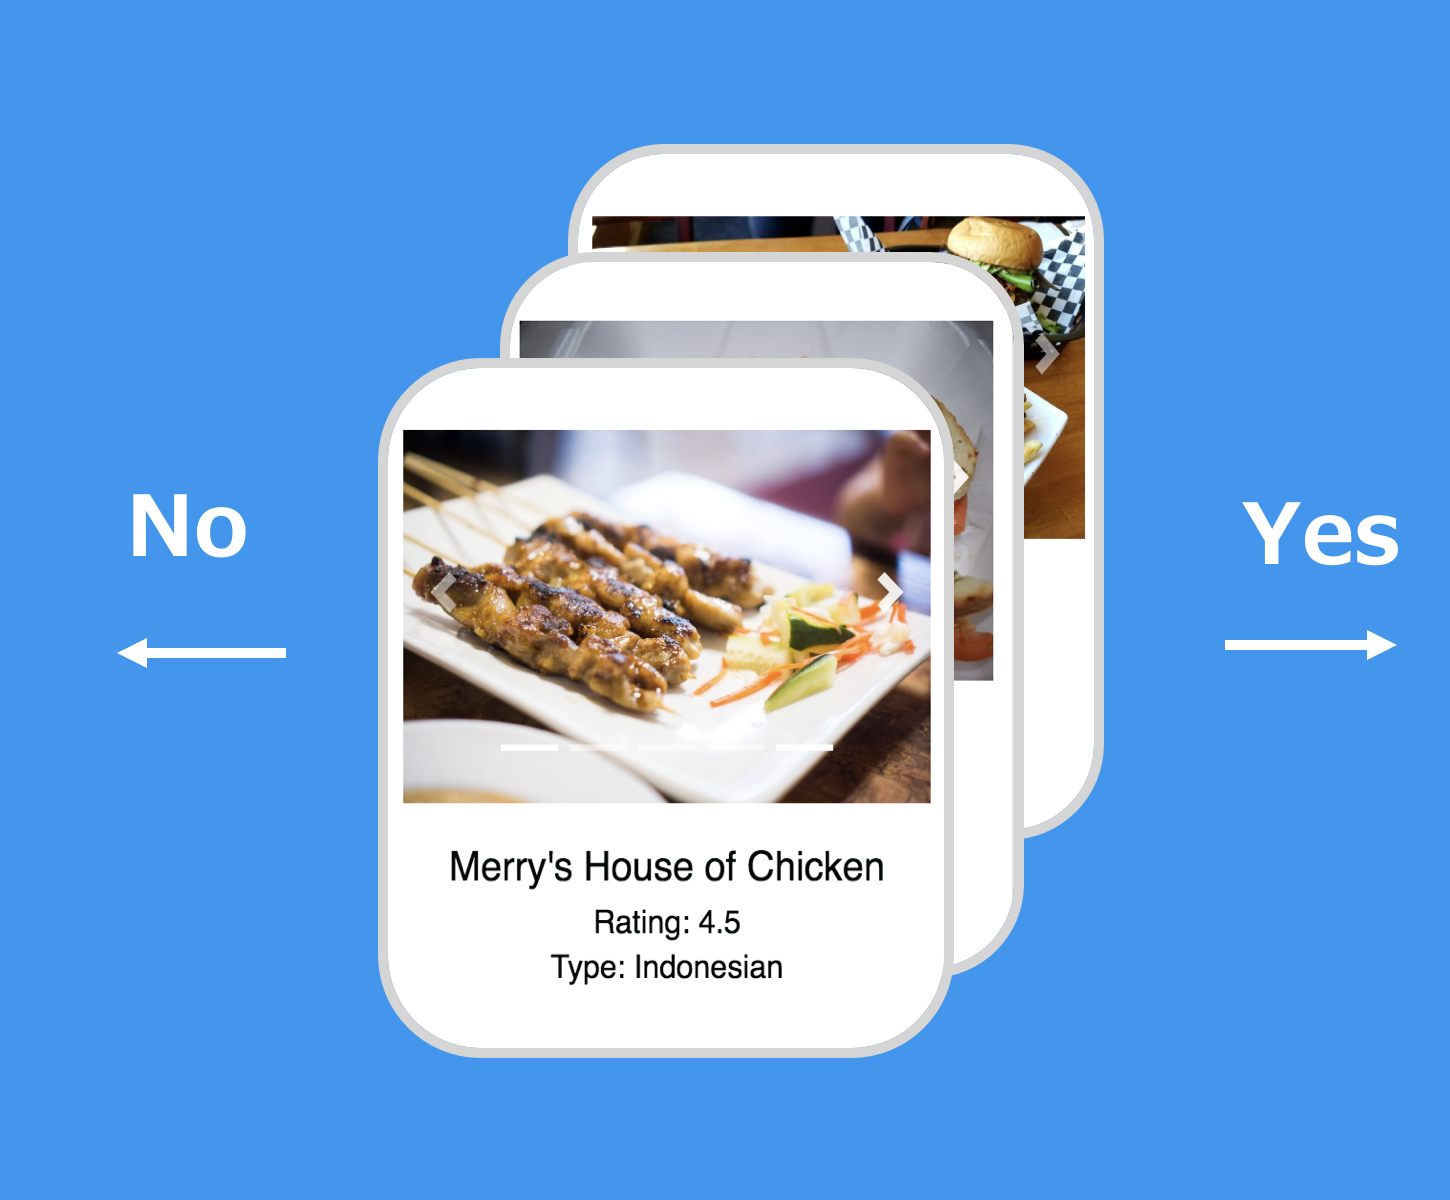
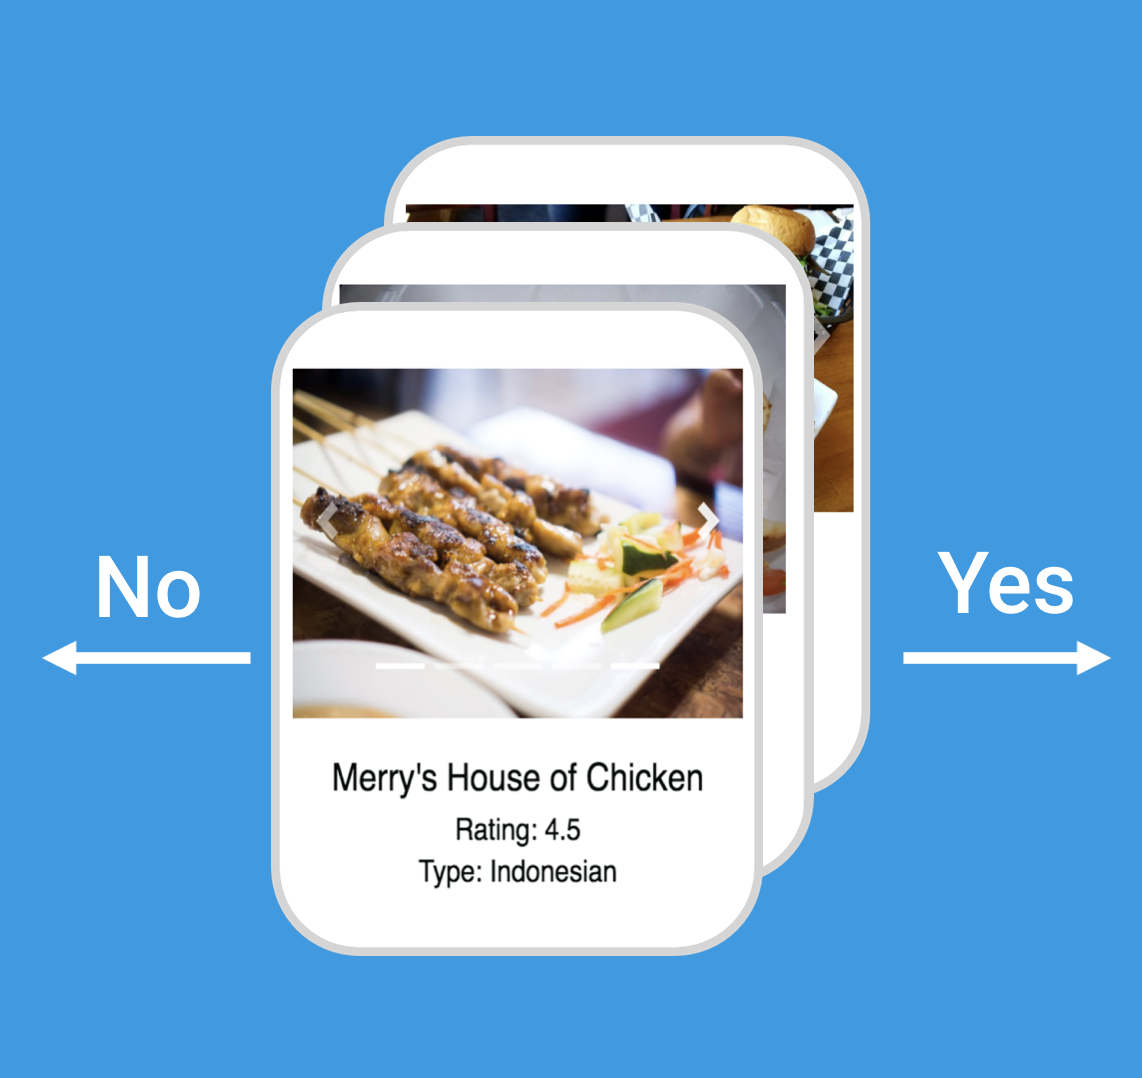
carousel working

diff --git a/src/Main.js b/src/Main.js
@@ -4,11 +4,11 @@ import {Slide} from 'material-auto-rotating-carousel';
 import First from './first.png';
 import Login from './login.gif';
 import Swipe from './Swipe.png';
-import Result from './results.png';
+import Result from './result.gif';
 import './css/Main.css';
 
 
-const { indigo, lightBlue, blue} = require('@material-ui/core/colors');
+const { indigo, lightBlue, blue, cyan} = require('@material-ui/core/colors');
 const Button = require('@material-ui/core/Button').default;
 
 export class Main extends Component {
@@ -20,7 +20,7 @@ export class Main extends Component {
     render(){
         return(
             <div>
-              <AutoRotatingCarousel autoplay={true} interval = {8000} hideArrows = {false} open={true} mobile = {true} label = 'Get started' onStart = {()=>window.location.href='/App'}>
+              <AutoRotatingCarousel autoplay={true} interval = {9000} hideArrows = {false} open={true} mobile = {true} label = 'Get started' onStart = {()=>window.location.href='/App'}>
                 <Slide
                   media={<img src={First} class="responsive" />}
                   mediaBackgroundStyle={{ backgroundColor: indigo[800] }}
@@ -29,7 +29,7 @@ export class Main extends Component {
                   subtitle= 'The food adventures are limitless.'
                 />
                 <Slide
-                  media={<img src={Login} class="responsive"/>}
+                  media={<img src={Login} class="snapgrid"/>}
                   mediaBackgroundStyle={{ backgroundColor: blue[900] }}
                   style={{ backgroundColor:  blue[900] }}
                   title="Three different options."
@@ -37,15 +37,15 @@ export class Main extends Component {
                 />
                 <Slide
                   media={<img src={Swipe} class="responsive"/>}
-                  mediaBackgroundStyle={{ backgroundColor: blue[500] }}
-                  style={{ backgroundColor:  blue[500] }}
+                  mediaBackgroundStyle={{ backgroundColor: lightBlue[600] }}
+                  style={{ backgroundColor:  lightBlue[600] }}
                   title='Generated options.'
                   subtitle='Select your preferences. See those options automatically generated. Swipe away.'
                 />
                 <Slide
-                  media={<img src={Result} class="responsive" />}
-                  mediaBackgroundStyle={{ backgroundColor: lightBlue[500] }}
-                  style={{ backgroundColor: lightBlue[500] }}
+                  media={<img src={Result} class="snapgrid" />}
+                  mediaBackgroundStyle={{ backgroundColor: cyan[500] }}
+                  style={{ backgroundColor: cyan[500] }}
                   title='Boom.'
                   subtitle='A splash of confetti to celebrate.'
                 />

diff --git a/src/css/Main.css b/src/css/Main.css
@@ -5,3 +5,15 @@
     font-size: 4vw;
 }
 
+.snapgrid{
+    width: 95%;
+    height: auto;
+    max-width: 700px;
+    font-size: 4vw;
+    margin-top: 60px; 
+    margin-left: 900px;
+    margin-right: 900px;
+
+
+}
+
